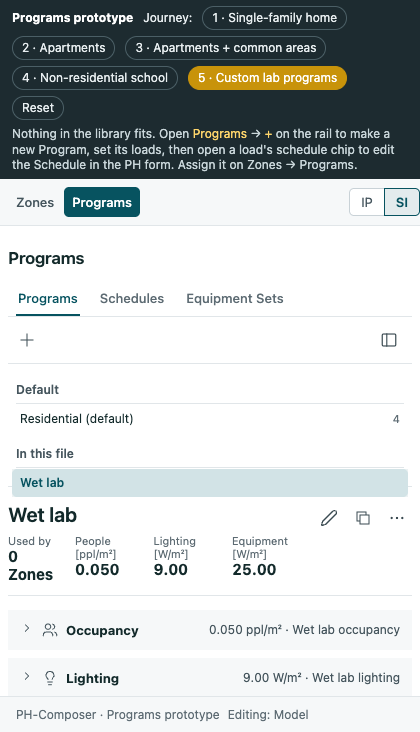
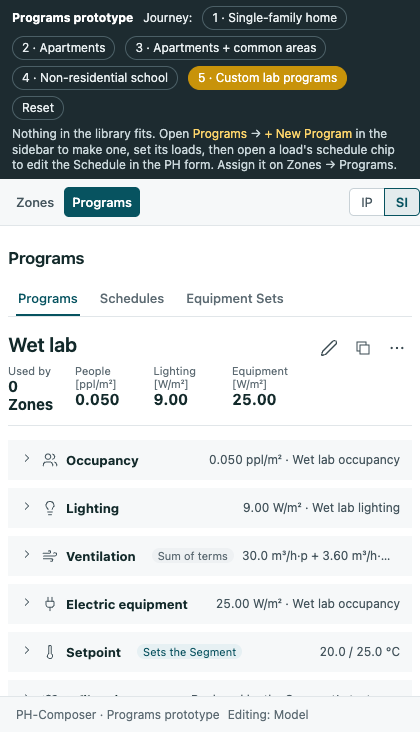
Programs tab: one right sidebar per subtab, the Builders' library pattern
No left rail. The source select starts with this file's records and then the added libraries, as in the Assembly and Window Type Builders (Q4a-35 revised).

diff --git a/planning/features/phase-04a-program/mockups/programs.html b/planning/features/phase-04a-program/mockups/programs.html
@@ -24,8 +24,7 @@
   .mk-hint { flex:1 1 100%; color:#c9d6da; }
   .mk-hint em { color:#ffd66b; font-style:normal; }
   /* ---- Programs tab layout: rail, editor, library sidebar (the Window Types arrangement). ---- */
-  .pgm-layout { display:grid; grid-template-columns:210px minmax(0,1fr) 260px; min-height:calc(100vh - 190px); }
-  .pgm-layout.no-library { grid-template-columns:210px minmax(0,1fr); }
+  .pgm-layout { display:grid; grid-template-columns:minmax(0,1fr) 270px; min-height:calc(100vh - 190px); }
   .pgm-main { min-width:0; overflow:auto; padding:0 18px 24px; }
   .pgm-library { border-left:1px solid var(--line); min-width:0; overflow:auto; }
   .pgm-head { display:flex; align-items:flex-start; gap:16px; padding:16px 0 12px; border-bottom:1px solid var(--line); }
@@ -82,6 +81,13 @@
   .phc-workspace .window-type-row.selected > button:first-child { background:var(--interaction-highlight-tint); color:var(--interaction-highlight); font-weight:600; }
   .window-type-row .pgm-row-note { padding-right:8px; color:var(--muted); font-size:11px; }
   .lib-row-add { margin-left:auto; }
+  .library-sidebar-row.is-selected { background:var(--interaction-highlight-tint); }
+  .library-sidebar-row.is-selected .library-sidebar-name { color:var(--interaction-highlight); font-weight:600; }
+  .lib-group-caption { display:flex; justify-content:space-between; margin:8px 0 2px; padding-bottom:2px; border-bottom:1px solid var(--line); color:var(--muted); font-size:11px; }
+  .pgm-library button.lib-new { align-self:flex-start; width:auto; min-height:0; height:auto; border:0; border-radius:0; box-shadow:none; background:transparent; padding:2px 0; color:var(--interaction-highlight); font:inherit; font-size:13px; cursor:pointer; }
+  .pgm-library button.lib-new:hover { text-decoration:underline; background:transparent; }
+  .pgm-library .library-sidebar-row-button { display:flex; align-items:center; }
+  .pgm-library .library-sidebar-row-button .library-sidebar-name { flex:1; min-width:0; text-align:left; }
   .library-sidebar-row { display:flex; align-items:center; }
   .library-sidebar-row .library-sidebar-row-button { flex:1; min-width:0; }
   .lib-unavailable { margin:8px 10px; padding:8px; border:1px dashed var(--line-strong); border-radius:var(--radius-sm); color:var(--muted); font-size:12px; }
@@ -130,8 +136,7 @@
   .panel-panes { position:relative; }
   #pane { padding:0 var(--page-gutter); }
   @media (max-width: 900px) {
-    .pgm-layout, .pgm-layout.no-library { grid-template-columns:minmax(0,1fr); }
-    .pgm-layout .window-rail { border-right:0; border-bottom:1px solid var(--line); max-height:170px; }
+    .pgm-layout { grid-template-columns:minmax(0,1fr); }
     .pgm-library { border-left:0; border-top:1px solid var(--line); }
     .pgm-main { padding:0 0 18px; }
     .pgm-loads { grid-template-columns:minmax(0,1fr); }
@@ -268,7 +273,7 @@
   }
   function baseState(j) {
     uid = 0;
-    var s = { journey: j, ztab: "programs", openCards: {}, tab: "zones", ptab: "programs", selProgram: null, selSchedule: null, selSet: null, checked: {}, lib: "mf", libQuery: "", notice: null, bubble: null,
+    var s = { journey: j, ztab: "programs", openCards: {}, tab: "zones", ptab: "programs", selProgram: null, selSchedule: null, selSet: null, checked: {}, lib: "file", libQuery: "", notice: null, bubble: null,
       programs: [], schedules: [], sets: [], dwellings: [], segments: [], zones: [] };
     // honeybee-ph single-family schedules (hbph_sfh_*.json): hourly profiles, illustrative values here.
     var presence = sched("SFH occupant presence", "Fractional", null, profile([1, 1, 1, 1, 1, 1, .9, .6, .4, .3, .3, .3, .3, .3, .3, .4, .5, .7, .9, .9, .9, 1, 1, 1]), "hbph");
@@ -426,7 +431,7 @@
     2: { title: "Apartments", hint: "Each Zone is one apartment. <em>Check every Zone</em> → Dwelling: <em>One dwelling each</em>. Then fill Bedrooms per row. Then open the Building's <em>settings</em> (hover its row) and check <em>Single dwelling</em> to see what it would replace." },
     3: { title: "Apartments + common areas", hint: "Make the six apartments <em>one dwelling each</em>. Then check the two corridors → Program: <em>Indoor Corridor</em> (Phius Multifamily, copied into the file on choice). Do the same for the stair, lobby, office and fitness room, and look at the amber flags. Then check the <em>Bike shed</em> → Building Segment: <em>No Building Segment</em>, and open a Segment's <em>settings</em> from its row." },
     4: { title: "Non-residential school", hint: "The Building Segment is non-residential, so every unassigned Zone is flagged. Check Zones and pick from <em>Phius Non-Residential</em> in the Program choice, or open the <em>Programs</em> tab and browse the library sidebar." },
-    5: { title: "Custom lab programs", hint: "Nothing in the library fits. Open <em>Programs</em> → <em>+</em> on the rail to make a new Program, set its loads, then open a load's schedule chip to edit the Schedule in the PH form. Assign it on Zones → Programs." }
+    5: { title: "Custom lab programs", hint: "Nothing in the library fits. Open <em>Programs</em> → <em>+ New Program</em> in the sidebar to make one, set its loads, then open a load's schedule chip to edit the Schedule in the PH form. Assign it on Zones → Programs." }
   };
   function renderStrip() {
     var h = '<b>Programs prototype</b><span>Journey:</span>';
@@ -833,18 +838,9 @@
     else h += setsSurface();
     return h + '</section>';
   }
-  function railRow(label, idv, act, selected, note) {
-    return '<div class="window-type-row' + (selected ? " selected" : "") + '"><button type="button" data-act="' + act + '" data-v="' + idv + '">' + esc(label) + '</button>' + (note ? '<span class="pgm-row-note">' + note + '</span>' : "") + '</div>';
-  }
   function usedBy(pid) { return S.zones.filter(function (z) { return (z.program || "pgm_default") === pid; }).length; }
   function programsSurface() {
-    var h = '<div class="pgm-layout"><aside class="window-rail"><div class="window-rail-content"><div class="window-rail-tools">' + iconBtn("add", "New Program", "new-program") + iconBtn("sidebar", "Collapse Programs sidebar", "noop", ' style="margin-left:auto"') + '</div><div class="window-type-list">';
-    h += '<div class="window-group">Default</div>' + railRow("Residential (default)", "pgm_default", "sel-program", S.selProgram === "pgm_default", usedBy("pgm_default") || "");
-    var others = S.programs.filter(function (p) { return p.id !== "pgm_default"; });
-    h += '<div class="window-group">In this file</div>';
-    if (!others.length) h += '<div class="pgm-row-note" style="padding:6px 10px">No other Programs yet. Choose + or add one from the library.</div>';
-    others.forEach(function (p) { h += railRow(p.name, p.id, "sel-program", S.selProgram === p.id, usedBy(p.id) || ""); });
-    h += '</div></div></aside><div class="pgm-main">' + programEditor(prog(S.selProgram)) + '</div>' + librarySidebar() + '</div>';
+    var h = '<div class="pgm-layout"><div class="pgm-main">' + programEditor(prog(S.selProgram)) + '</div>' + librarySidebar() + '</div>';
     return h;
   }
   function programEditor(p) {
@@ -915,20 +911,44 @@
     var sc = schedById(sid);
     return '<div class="pgm-sched">' + svg("calendar", 14) + label + ' schedule <button type="button" data-act="open-schedule" data-v="' + (sc ? sc.id : "") + '">' + (sc ? esc(sc.name) : "Choose…") + ' ▾</button></div>';
   }
+  // The right sidebar, as in the Assembly and Window Type Builders: its source select starts with this file's
+  // records, then each added library. Choosing a record in this file opens it in the editor.
+  function fileRow(label, idv, act, selected, note) {
+    return '<div class="library-sidebar-row' + (selected ? " is-selected" : "") + '"><button type="button" class="library-sidebar-row-button" data-act="' + act + '" data-v="' + idv + '"' + (selected ? ' aria-pressed="true"' : "") + '><span class="library-sidebar-name">' + esc(label) + '</span>' + (note !== undefined && note !== "" ? '<span class="lib-meta" data-tip="Zones using it">' + note + '</span>' : "") + '</button></div>';
+  }
+  function caption(text, n) { return '<div class="lib-group-caption"><span>' + text + '</span><span>' + n + '</span></div>'; }
+  function sidebarFrame(title, selectHtml, body) {
+    return '<aside class="library-sidebar-root pgm-library" aria-label="' + title + '"><div class="library-sidebar-heading"><button type="button" class="library-sidebar-toggle" aria-expanded="true">' + title + '</button>' + iconBtn("settings", "Library setup…", "noop") + '</div><div class="library-sidebar-content">' + selectHtml + body + '</div></aside>';
+  }
+  function simpleSidebar(title, fileLabel, newAct, newLabel, groupsHtml, count) {
+    return sidebarFrame(title, '<select class="library-sidebar-source" aria-label="Source" data-tip="No added library holds these yet. Library Programs bring their Schedules with them."><option>' + fileLabel + '</option></select>',
+      '<button type="button" class="lib-new" data-act="' + newAct + '">+ ' + newLabel + '</button><input type="search" placeholder="Search" aria-label="Search">' +
+      '<small class="muted">' + count + ' in this file</small><div class="library-sidebar-list">' + groupsHtml + '</div>');
+  }
   function librarySidebar() {
     var h = '<aside class="library-sidebar-root pgm-library" aria-label="Program Library"><div class="library-sidebar-heading"><button type="button" class="library-sidebar-toggle" aria-expanded="true">Program Library</button>' + iconBtn("settings", "Library setup…", "noop") + '</div><div class="library-sidebar-content">';
     h += '<select class="library-sidebar-source" data-act="lib-source" aria-label="Library source">' +
+      '<option value="file"' + (S.lib === "file" ? " selected" : "") + '>Programs in this file</option>' +
       '<option value="mf"' + (S.lib === "mf" ? " selected" : "") + '>Phius Multifamily · phius-multifamily.json</option>' +
       '<option value="nr"' + (S.lib === "nr" ? " selected" : "") + '>Phius Non-Residential · phius-non-residential.json</option>' +
       '<option value="hbe"' + (S.lib === "hbe" ? " selected" : "") + '>honeybee-energy standards (not added)</option></select>';
     if (S.lib === "hbe") return h + '<div class="lib-unavailable"><b>Not added.</b> An optional library file from ph-composer-standards, generated from the DOE reference programs: office, school, hotel and retail programs by vintage. Add it in Library setup, like any other library file. <br><br><button type="button" data-act="noop">Library setup…</button></div></div></aside>';
+    if (S.lib === "file") {
+      var others = S.programs.filter(function (p) { return p.id !== "pgm_default"; });
+      h += '<button type="button" class="lib-new" data-act="new-program">+ New Program</button><input type="search" placeholder="Search Programs" aria-label="Search Programs in this file">' +
+        '<small class="muted">' + S.programs.length + ' in this file</small><div class="library-sidebar-list">' + caption("Default", 1) +
+        fileRow("Residential (default)", "pgm_default", "sel-program", S.selProgram === "pgm_default", usedBy("pgm_default")) + caption("In this file", others.length) +
+        (others.length ? others.map(function (p) { return fileRow(p.name, p.id, "sel-program", S.selProgram === p.id, usedBy(p.id)); }).join("") : '<div class="pgm-row-note" style="padding:6px 0">No other Programs yet. Choose + New Program, or a library above.</div>') + '</div>';
+      return h + '</div></aside>';
+    }
     h += '<input type="search" data-act="lib-search" value="' + esc(S.libQuery) + '" placeholder="Search Programs" aria-label="Search Program library">';
     var rows = PHIUS[S.lib].filter(function (r) { return r[0].toLowerCase().indexOf(S.libQuery.toLowerCase()) >= 0; });
     h += '<small class="muted">' + rows.length + ' shown · from ph-composer-standards, generated from honeybee-ph</small><div class="library-sidebar-list"><section class="library-sidebar-group">';
     rows.forEach(function (r) {
       var inFile = !!programByName(r[0]);
-      h += '<div class="library-sidebar-row"><button type="button" class="library-sidebar-row-button" data-tip="' + esc(r[0] + ": " + fmt(r[1], 3) + " ppl/m², lighting " + fmt(r[6], 1) + " W/m², equipment " + fmt(r[8], 1) + " W/m², occupied " + r[2] + "–" + r[3] + " h, " + r[4] + " d/a. Ventilation, hot water and setpoints are not in the Phius data.") + '"><span class="library-sidebar-name">' + esc(r[0]) + '</span><span class="lib-meta">' + fmt(r[6], 1) + ' W/m²</span></button>' +
-        (inFile ? '<span class="lib-meta" data-tip="Already in this file">' + svg("check", 14) + '</span>' : iconBtn("add", "Add " + r[0] + " to this file", "lib-add", ' data-v="' + esc(r[0]) + '"')) + '</div>';
+      var local = programByName(r[0]);
+      h += '<div class="library-sidebar-row' + (local && S.selProgram === local.id ? " is-selected" : "") + '"><button type="button" class="library-sidebar-row-button"' + (local ? ' data-act="sel-program" data-v="' + local.id + '"' : "") + ' data-tip="' + esc(r[0] + ": " + fmt(r[1], 3) + " ppl/m², lighting " + fmt(r[6], 1) + " W/m², equipment " + fmt(r[8], 1) + " W/m², occupied " + r[2] + "–" + r[3] + " h, " + r[4] + " d/a. Ventilation, infiltration, hot water and set points come from its 2019 base program.") + '"><span class="library-sidebar-name">' + esc(r[0]) + '</span><span class="lib-meta">' + fmt(r[6], 1) + ' W/m²</span></button>' +
+        (inFile ? '<span class="lib-meta" data-tip="In this file: choose the row to open the local copy">' + svg("check", 14) + '</span>' : iconBtn("add", "Add " + r[0] + " to this file", "lib-add", ' data-v="' + esc(r[0]) + '"')) + '</div>';
     });
     return h + '</section></div></div></aside>';
   }
@@ -937,9 +957,8 @@
   function schedulesSurface() {
     var groups = {};
     S.schedules.forEach(function (x) { (groups[x.kind] = groups[x.kind] || []).push(x); });
-    var h = '<div class="pgm-layout no-library"><aside class="window-rail"><div class="window-rail-content"><div class="window-rail-tools">' + iconBtn("add", "New Schedule", "new-schedule") + '</div><div class="window-type-list">';
-    Object.keys(groups).forEach(function (k) { h += '<div class="window-group">' + k + '</div>'; groups[k].forEach(function (x) { h += railRow(x.name, x.id, "sel-schedule", S.selSchedule === x.id); }); });
-    h += '</div></div></aside><div class="pgm-main">' + scheduleEditor(schedById(S.selSchedule)) + '</div></div>';
+    var g = Object.keys(groups).map(function (k) { return caption(k, groups[k].length) + groups[k].map(function (x) { return fileRow(x.name, x.id, "sel-schedule", S.selSchedule === x.id); }).join(""); }).join("");
+    var h = '<div class="pgm-layout"><div class="pgm-main">' + scheduleEditor(schedById(S.selSchedule)) + '</div>' + simpleSidebar("Schedule Library", "Schedules in this file", "new-schedule", "New Schedule", g, S.schedules.length) + '</div>';
     return h;
   }
   var LOAD_LABEL = { people: "Occupancy", lighting: "Lighting", equip: "Electric equipment", gas: "Gas equipment", shw: "Hot water", infil: "Infiltration", vent: "Ventilation" };
@@ -997,13 +1016,12 @@
 
   // ---------------------------------------------------------------- Equipment Sets
   function setsSurface() {
-    var h = '<div class="pgm-layout no-library"><aside class="window-rail"><div class="window-rail-content"><div class="window-rail-tools">' + iconBtn("add", "New Equipment Set", "new-set") + '</div><div class="window-type-list"><div class="window-group">In this file</div>';
-    S.sets.forEach(function (x) { h += railRow(x.name, x.id, "sel-set", S.selSet === x.id); });
     var x = setById(S.selSet);
-    h += '</div></div></aside><div class="pgm-main"><div class="pgm-head"><div><h2>' + esc(x.name) + '</h2><div class="pgm-sub">honeybee-ph devices, exported as Process loads with each device\'s watts worked out per dwelling at export. One Set serves a dwelling, not each of its Zones.</div></div><div class="pgm-tools">' +
+    var h = '<div class="pgm-layout"><div class="pgm-main"><div class="pgm-head"><div><h2>' + esc(x.name) + '</h2><div class="pgm-sub">honeybee-ph devices, exported as Process loads with each device\'s watts worked out per dwelling at export. One Set serves a dwelling, not each of its Zones.</div></div><div class="pgm-tools">' +
       iconBtn("add", "Add device", "noop") + iconBtn("duplicate", "Duplicate", "noop") + iconBtn("more", "More", "noop") + '</div></div>';
     h += '<div class="phc-table-mount" style="margin-top:12px"><table class="phc-table zp-table"><thead><tr><th>Device</th><th class="num">Quantity</th><th>Energy demand</th><th>In conditioned space</th><th>Reference quantity</th></tr></thead><tbody>' +
-      x.devices.map(function (d) { var r = /Phius rule/.test(d[2]); return '<tr><td>' + esc(d[0]) + '</td><td class="num">' + d[1] + '</td><td>' + (r ? '<span style="color:#0b5360">' + svg("sigma", 12) + ' ' + esc(d[2]) + '</span>' : esc(d[2])) + '</td><td>' + (/exterior|garage/i.test(d[0]) ? "No" : "Yes") + '</td><td class="zp-muted">' + (r ? "Bedrooms / floor area" : "Zone occupants") + '</td></tr>'; }).join("") + '</tbody></table></div></div></div>';
+      x.devices.map(function (d) { var r = /Phius rule/.test(d[2]); return '<tr><td>' + esc(d[0]) + '</td><td class="num">' + d[1] + '</td><td>' + (r ? '<span style="color:#0b5360">' + svg("sigma", 12) + ' ' + esc(d[2]) + '</span>' : esc(d[2])) + '</td><td>' + (/exterior|garage/i.test(d[0]) ? "No" : "Yes") + '</td><td class="zp-muted">' + (r ? "Bedrooms / floor area" : "Zone occupants") + '</td></tr>'; }).join("") + '</tbody></table></div></div>' +
+      simpleSidebar("Equipment Set Library", "Equipment Sets in this file", "new-set", "New Equipment Set", caption("In this file", S.sets.length) + S.sets.map(function (y) { return fileRow(y.name, y.id, "sel-set", S.selSet === y.id); }).join(""), S.sets.length) + '</div>';
     return h;
   }
 

diff --git a/planning/features/phase-04a-program/DECISIONS.md b/planning/features/phase-04a-program/DECISIONS.md
@@ -106,7 +106,7 @@ them. He answered three of the questions it raised, Q4a-27 to Q4a-32 on 2026-11-
 | Q4a-25 | **Library Programs arrive complete**, following honeybee-ph `honeybee_energy_ph/load/phius_residential.py` and honeybee-REVIVE `honeybee_revive_standards/programtypes/rv2024_programs_abridged.json`: every slot filled (the slots the Phius data lacks from the paired 2019 base program), Schedules supplied beside them, and the per-dwelling Phius loads (MEL, interior, exterior and garage lighting, cooktop) left at zero in the Program and calculated per Dwelling by the `phius_residential` formulas | The standards generator fills the slots and labels their source; the Program editor names it on each such card |
 | Q4a-33 | **A ventilation schedule is its own PH form**: four rows, high, standard, basic and minimum, each hours per day and a fraction of design flow, totalling 24 h, plus days per week and weeks per year (PHX requires the four names, `create_vent_schd.py`) | Schedules gain a Ventilation type beside Fractional, Activity level and Temperature |
 | Q4a-34 | **The Program editor is a column of full-width accordion cards**: closed, each shows its values and schedule on one line; open, the load's values on the left and its Schedules on the right; clear borders and a header band separate them. Order: Occupancy, Lighting, Ventilation, Electric equipment, Setpoint, Infiltration, then Gas equipment and Hot water under "EnergyPlus only" | Prototype `j4-program-cards` |
-| Q4a-35 | **Only Programs gets a library sidebar**, as a trial. A library Program brings its Schedules; Equipment Sets come from library files through the Library tab | Revisit after use |
+| Q4a-35 | **One right sidebar, the Builders' pattern, on every subtab** (revised the same day: Ed, "consistency is important"). No left rail. As in the Assembly and Window Type Builders, the sidebar's source select starts with "Programs in this file" (or Schedules, Equipment Sets) and lists the added libraries after it; choosing a record in this file opens it in the editor, and a library row ends in a plus that copies it. Programs lists the Phius and other library files; Schedules and Equipment Sets show only their records in this file for now, since Schedules arrive with their Programs | Prototype `j4-library`, `j1-default-program`, `j1-vent-schedule`. Revisit library sources for Schedules and Equipment Sets after use |
 | Q4a-22 | **Copy on use, the same protocol as Materials, Frames, Glazings and Psi-Install Types** (Ed, 2026-11-15). Choosing a library Program copies it into the Model as a local record with its source attribution and assigns it, one native transaction (`context/TECH_STACK.md`, "Copy plus assignment commits as one native transaction"; `html/library/copy.js`). A later use finds the local copy by source identity ("In this file"); the copy keeps working offline and when the source changes; Review offers keep local or use the library copy | New for Programs: a Program references Schedules, so the copy brings them along and reuses local Schedules from the same source. Today's library kinds are all single records and the coordinator copies one record per use; P4a-07 adds dependency copying (the glossary's Bookshelfing already names it) |
 
 **Revised 2026-11-15 by the [Building Segments plan](building-segments/PRD.md#decisions-ed-2026-11-15)

diff --git a/planning/features/phase-04a-program/mockups/README.md b/planning/features/phase-04a-program/mockups/README.md
@@ -27,11 +27,13 @@ server. The dark strip at the top picks a journey and says what to try; Reset re
 
 ## What the prototype proposes
 
-- **Programs tab** with Programs, Schedules and Equipment Sets subtabs, laid out like Window Types:
-  a rail of records, the editor, and for Programs only a Program Library sidebar (Q4a-35). Its
-  sources are library files from ph-composer-standards that the user added through Library setup
-  (Q4a-19): Phius Multifamily and Phius Non-Residential, with honeybee-energy standards shown as
-  not added (Q4a-20). Journeys 3 and 4 assume both Phius files were added.
+- **Programs tab** with Programs, Schedules and Equipment Sets subtabs. Each is the editor and one
+  right sidebar, as in the Assembly and Window Type Builders (Q4a-35): no left rail; the source
+  select starts with "Programs in this file" (or Schedules, Equipment Sets) and then the added
+  library files, Phius Multifamily and Phius Non-Residential from ph-composer-standards, with
+  honeybee-energy standards shown as not added (Q4a-20). Choosing a record in this file opens it;
+  a library row ends in a plus that copies it, or a check when it is already in this file.
+  Journeys 3 and 4 assume both Phius files were added.
 - **A Program** is a column of full-width accordion cards (Q4a-34, `j4-program-cards`): closed,
   each shows its values and schedule on one line; open, its values on the left and its Schedules on
   the right. Order: Occupancy, Lighting, Ventilation, Electric equipment, Setpoint, Infiltration,

diff --git a/planning/features/phase-04a-program/PRD.md b/planning/features/phase-04a-program/PRD.md
@@ -140,9 +140,12 @@ honeybee-ph operating periods waits on the honeybee-ph and PHX fix for F4a-13 (Q
 
 ## Programs tab (P4a-11; reviewed 2026-11-15)
 
-Subtabs Programs, Schedules and Equipment Sets, on the Window Types layout: a rail of records, the
-editor, and for Programs only a Program Library sidebar listing the library files the user has
-added (Q4a-35, a trial). Prototype: `j4-program-cards`, `j1-vent-schedule`, `j5-program`,
+Subtabs Programs, Schedules and Equipment Sets, each the editor with one right sidebar, the
+Assembly and Window Type Builders' pattern (Q4a-35): no left rail; the sidebar's source select
+starts with "Programs in this file" (or Schedules, Equipment Sets), with + New, search and the
+records grouped (Default and In this file; Schedules by type), and lists the added library files
+after it. Choosing a record in this file opens it; a library row ends in a plus that copies it.
+Schedules and Equipment Sets show only their records in this file for now. Prototype: `j4-program-cards`, `j1-vent-schedule`, `j5-program`,
 `equipment-sets`.
 
 - **Program editor** (Q4a-34): the header names the Program, its source and its users, with People,
